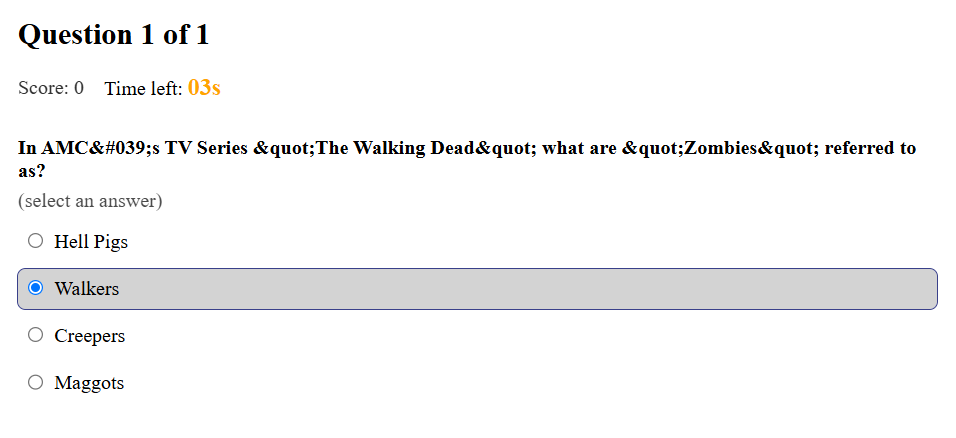
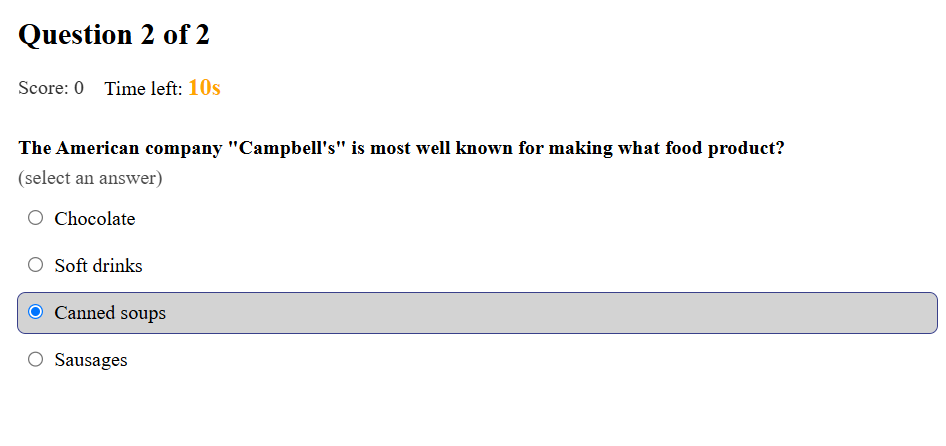
Update README to document adding post-quiz summary
- Added preview images to show updated Play view and Results view:
  the Play view shows that HTML entities are now handled correctly.
- Added post-quiz summary in the  "Completed features" section
- Modified the "Work in Progress" section

diff --git a/src/pages/Play.jsx b/src/pages/Play.jsx
@@ -20,7 +20,8 @@ function formatMs(ms) {
     return `${s}s`;
 }
 
-// decode: simple DOM-based HTML entity decoder
+// simple DOM-based HTML entity decoder
+// NOTE: safe from XSS attacks because we don't attach the element to the DOM
 const decodeHtml = (() => {
     let el;
     return str => {

diff --git a/README.md b/README.md
@@ -2,7 +2,13 @@
 
 Fast-paced trivia at your fingertips.
 
-![App Preview](preview-app-play-view.png)
+| ![App Preview](preview-app-play-view.png) |
+| :---------------------------------------: |
+|      _Image 1 — View when playing._       |
+
+| ![App Preview](preview-app-results-view.png) |
+| :------------------------------------------: |
+|        _Image 2 — The results page._         |
 
 > Note: This is not the final version of the UI.
 
@@ -24,7 +30,7 @@ Fast-paced trivia at your fingertips.
 
 ## 🛠 Tech Stack
 
-- **Frontend:** React.js
+- **Frontend:** React.js v.19
 - **Styling:** CSS
 - **Data:** Open Trivia DB API
 - **Backend/DB:** Firebase (Cloud Firestore) for leaderboard
@@ -71,10 +77,12 @@ Fast-paced trivia at your fingertips.
 - ✅ **Branding & Header:** Logo + wordmark
 - ✅ **Completed features:**
     - Core quiz flow (fetch questions, show choices, submit answers)
-    - Timer (drif-free) and scoring logic
-- ⚙ **Work in Progress:**
+    - Timer (drift-free) and scoring logic
     - Post-quiz summary (final score, correct answers)
-    - UI: Make the app look pretty and use logo/branding
+- ⚙ **Work in Progress:**
+    - UX improvement: Replace free-text category with a real category dropdown from Open Trivia DB categories.
+    - UI improvement: polish the look and use logo/branding mark/icons
+    - Maintenance: major refactoring (component extraction, CSS modules, etc.)
 
 ### 🧭 Next Steps
 
@@ -83,7 +91,7 @@ Fast-paced trivia at your fingertips.
 - Persistent player alias + theme toggle
 - Responsive design: Mobile-friendly
 - Accessibility (keyboard navigation, focus states, ARIA labels)
-- Share score (copyable link/image)
+- Share score (copyable image)
 
 ---
 
